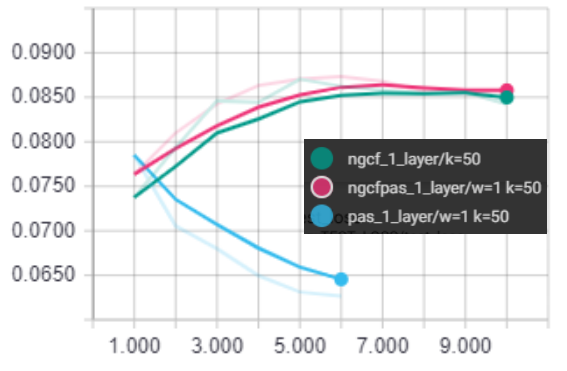
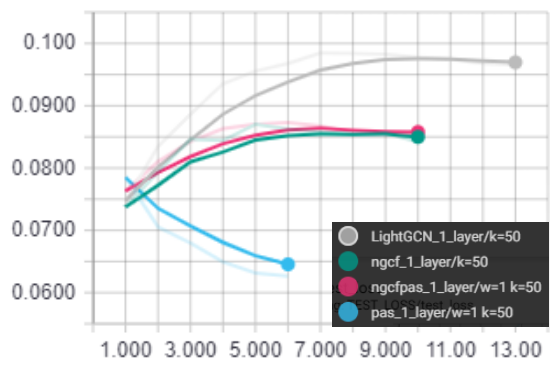
Added lightgcn results

diff --git a/article/performance-comparisons.tex b/article/performance-comparisons.tex
@@ -116,7 +116,7 @@ However, we did have an initial idea, that the convolutions with price and categ
 \subsubsection{One convolution experiment}
 An experiment was conducted to see the influence of only using one convolution in the different methods.
 The results can be seen in \autoref{tab:one-convolution}.
-When comparing the results with the experiment in \autoref{tab:results-with-many-methods} that used 3 convolutions for all methods except PUP, it can be seen that NGCF actually performs a bit worse for Recall@50 and NDCG@50.
+When comparing the results with the experiment in \autoref{tab:results-with-many-methods} that used 3 convolutions for all methods except PUP, it can be seen that NGCF and LightGCN performs a bit worse for Recall@50 and NDCG@50.
 However for NGCF PAS it can be seen that the convolutions have little influence on the results.
 It performs 0.0001 worse in Recall@50 and improve 0.00082 in NDCG@50.
 LGCN PAS is significantly worse, which also can be seen on \autoref{fig:one-con-ndcg} and \autoref{fig:one-con-recall}.
@@ -127,7 +127,7 @@ LGCN PAS actually becomes worse as it trains when only using one convolution.
         \hline
         \rowcolor[HTML]{FFFFFF}
                        & Recall@50 & NDCG@50 \\ \hline
-        LightGCN       & a         & a       \\ \hline
+        LightGCN       & 0.1953    & 0.0957  \\ \hline
         PUP            & 0.1697    & 0.07802 \\ \hline
         NGCF           & 0.1748    & 0.08422 \\ \hline
         LGCN PAS (1.0) & 0.1299    & 0.06454 \\ \hline
